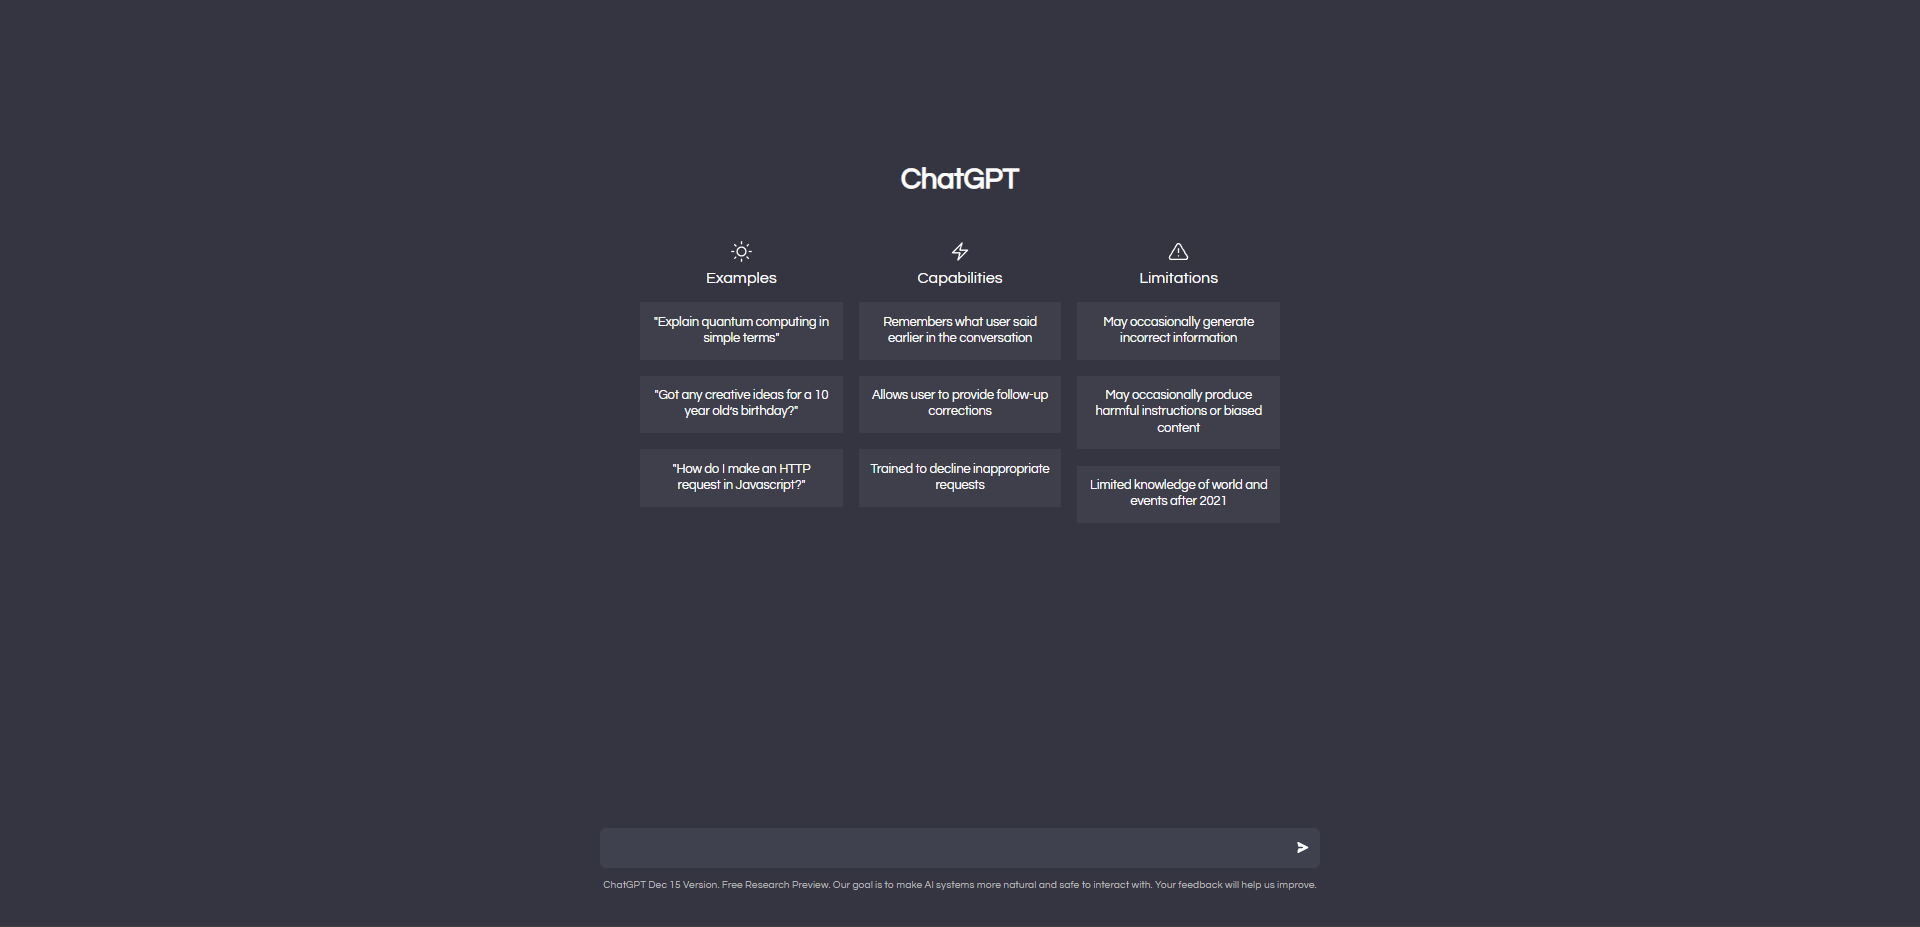
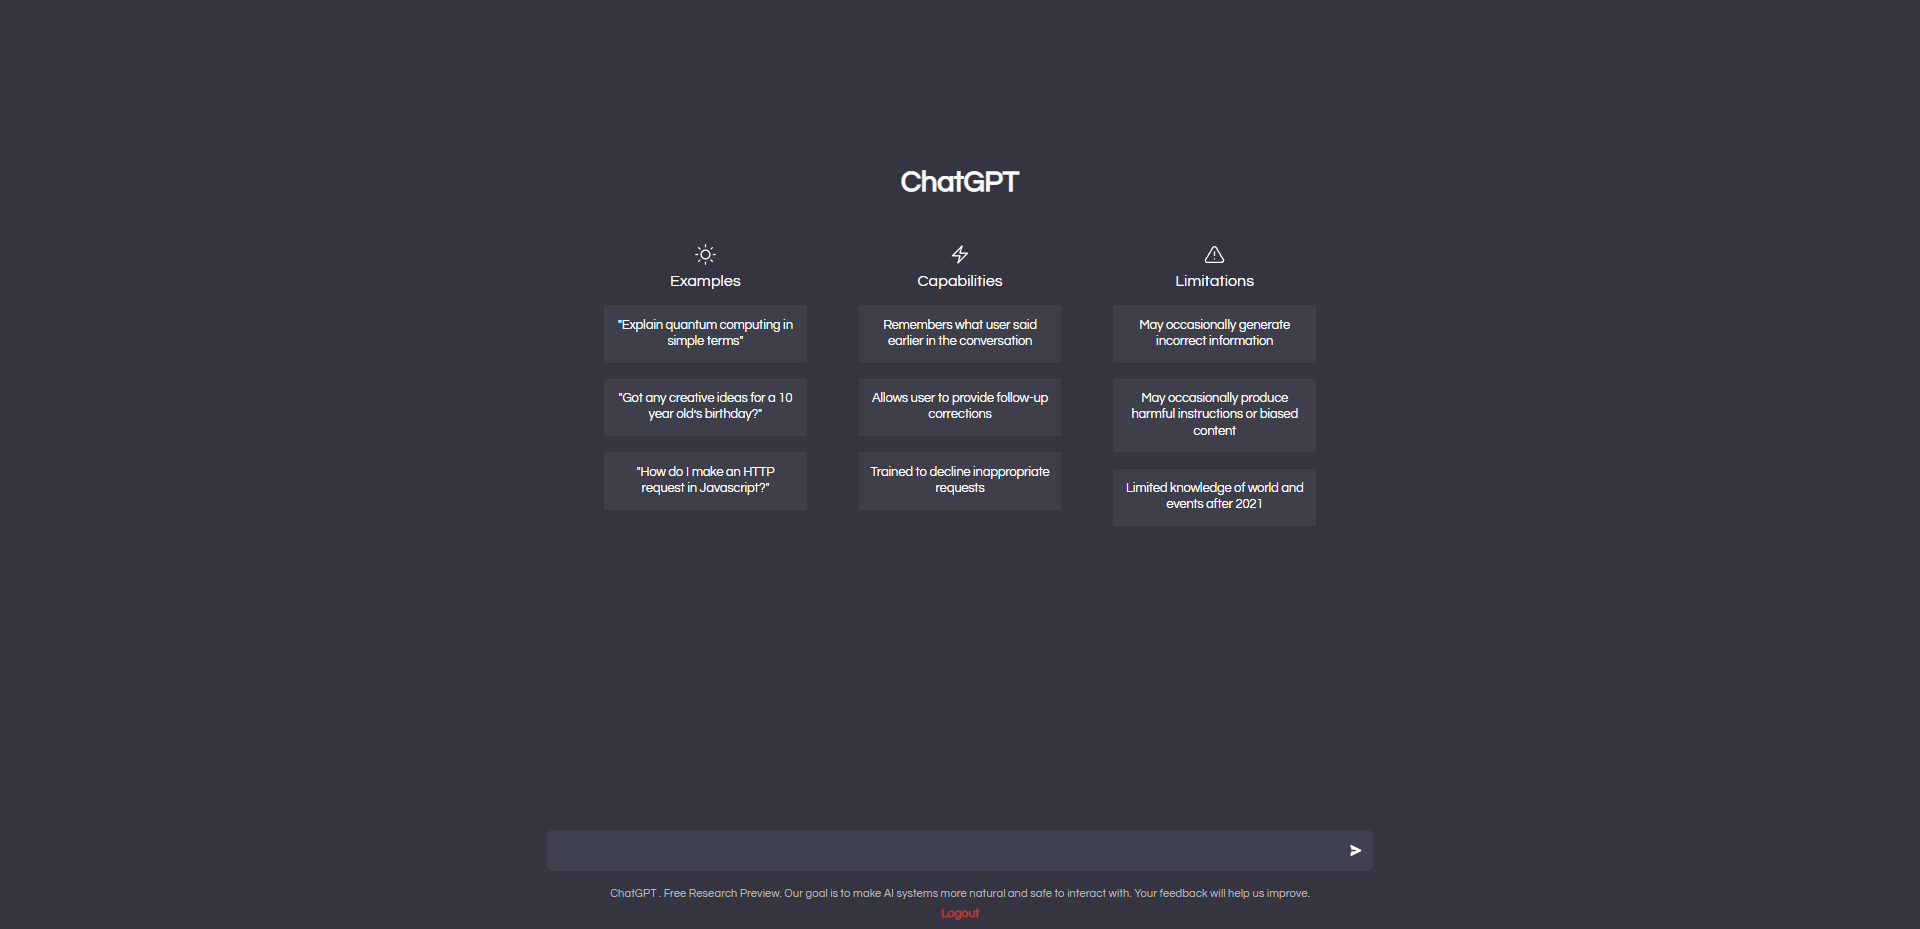
auto scroll added, unique key fixed, and get all previous chats too now and yes spinner added for loading

diff --git a/client/src/App.tsx b/client/src/App.tsx
@@ -1,4 +1,4 @@
-import { useState } from "react";
+import { useEffect, useState } from "react";
 import Hero from "./components/Hero";
 import Input from "./components/Input";
 import Messages from "./components/Messages";
@@ -6,17 +6,31 @@ import { Routes, Route, Navigate } from "react-router-dom";
 import Login from "./pages/Login";
 import Signup from "./pages/Signup";
 import Auth from "./pages/Auth";
+import axios from "axios";
+import { url } from "./url";
 
 export type Message = {
   msg: string;
   me?: boolean;
   img: string | undefined;
+  _id: string;
+};
+
+type User = {
+  apiKey: string;
+  avatar: string;
+  createdAt: string;
+  queries: string;
+  uid: string;
+  updatedAt: string;
+  username: string;
+  _id: string;
 };
 
 export default function App() {
   const [messages, setMessages] = useState<Message[]>([]);
   const [loading, setLoading] = useState<boolean>(false);
-  const [auth, setAuth] = useState(() => {
+  const [auth, setAuth] = useState<User | undefined>(() => {
     const user = localStorage.getItem("auth");
     if (!user) return undefined;
     return JSON.parse(user);
@@ -29,12 +43,35 @@ export default function App() {
     setLoading(value);
   }
   function handleAuth(value: any) {
+    setMessages([]);
     setAuth(value);
   }
   function handlelogout() {
-    setAuth(null);
+    setAuth(undefined);
     localStorage.removeItem("auth");
   }
+  useEffect(() => {
+    if (!auth) return;
+    axios
+      .get(`${url}/chatgpt/getchats/${auth.apiKey}`)
+      .then((res) => {
+        const processed = res.data.texts.map(
+          (item: { message: string; textBy: number; _id: string }) => {
+            return {
+              msg: item.message,
+              me: item.textBy == 1,
+              _id: item._id,
+              img: item.textBy == 1 ? auth?.avatar : undefined,
+            };
+          }
+        );
+        setMessages(processed);
+      })
+      .catch((err) => {
+        console.log(err);
+      });
+  }, [auth]);
+
   return (
     <div>
       <Routes>

diff --git a/client/src/components/Input.tsx b/client/src/components/Input.tsx
@@ -25,6 +25,7 @@ export default function Input({
       msg: input,
       me: true,
       img,
+      _id: new Date().toString(),
     });
     setInput("");
     toggleLoading(true);
@@ -37,6 +38,7 @@ export default function Input({
         addMessage({
           msg: resp.data.message,
           img: undefined,
+          _id: resp.data.id,
         });
       });
   }
@@ -48,14 +50,14 @@ export default function Input({
         flexDirection: "column",
         alignItems: "center",
         position: "absolute",
-        bottom: "35px",
+        bottom: "10px",
         width: "100%",
       }}
     >
       <div
         className="input_box"
         style={{
-          width: "75%",
+          width: "86%",
           backgroundColor: "#40414f",
           height: "45px",
           borderRadius: "7px",
@@ -67,6 +69,7 @@ export default function Input({
         }}
       >
         <input
+          autoFocus={true}
           onKeyDown={(e) => e.keyCode === 13 && input != "" && handleInput()}
           onChange={(e) => setInput(e.target.value)}
           value={input}
@@ -100,20 +103,19 @@ export default function Input({
       <p
         className="hide"
         style={{
-          fontSize: "11.6px",
+          fontSize: "12.6px",
           textAlign: "center",
           marginTop: "19px",
           color: "rgb(185 185 185)",
-          maxWidth: "75%",
+          maxWidth: "85%",
         }}
       >
-        ChatGPT Dec 15 Version. Free Research Preview. Our goal is to make AI
-        systems more natural and safe to interact with. Your feedback will help
-        us improve.
+        ChatGPT . Free Research Preview. Our goal is to make AI systems more
+        natural and safe to interact with. Your feedback will help us improve.
       </p>
       <p
         style={{
-          fontSize: "13px",
+          fontSize: "13.5px",
           marginTop: "9px",
           cursor: "pointer",
           color: "#bf3838",

diff --git a/client/src/components/Messages.tsx b/client/src/components/Messages.tsx
@@ -1,6 +1,6 @@
 import React, { useEffect, useRef } from "react";
 import { Message as MessageType } from "../App";
-
+import loader from "../assets/loader.gif";
 import Message from "./Message";
 
 type MessagesProps = {
@@ -9,34 +9,41 @@ type MessagesProps = {
 };
 
 export default function Messages({ messages, show }: MessagesProps) {
-  const scrollRef = useRef<any>();
-  useEffect(() => {
-    updateScroll();
-  }, [messages]);
+  const scrollRef = useRef<HTMLDivElement | null>(null);
+  useEffect(updateScroll, [messages]);
+
   function updateScroll() {
-    var element = scrollRef.current;
-    if (!element) return;
-    element.scrollTop = element.scrollHeight;
+    scrollRef.current?.scrollIntoView({ behavior: "smooth" });
   }
+
   return (
     <div
       className="msg_cont"
-      ref={scrollRef}
       style={{
-        width: "75%",
+        width: "85%",
         margin: "auto",
         marginTop: "2.5vh",
+        overflowY: "scroll",
       }}
     >
       <>
         {messages.map((item) => {
-          return <Message me={item.me} msg={item.msg} img={item.img} />;
+          return (
+            <div ref={scrollRef} key={item._id}>
+              <Message
+                me={item.me}
+                msg={item.msg}
+                img={item.img}
+                _id={item._id}
+                key={item._id}
+              />
+            </div>
+          );
         })}
       </>
-
       {show && (
         <p style={{ textAlign: "center", margin: "28px 0", fontSize: "14px" }}>
-          Loading...
+          <img style={{ width: "23px" }} src={loader} alt="" />
         </p>
       )}
     </div>

diff --git a/controllers/chat.js b/controllers/chat.js
@@ -1,8 +1,10 @@
 const Query = require("../models/Query");
 const { createCompletionChatGTP } = require("../chatGTP");
+const { v4: uuid } = require("uuid");
 
 exports.chat = async (req, res) => {
   try {
+    const tempId = uuid();
     await Query.updateOne(
       { _id: req.queryId },
       { $push: { texts: { message: req.body.message, textBy: 1 } } }
@@ -12,9 +14,16 @@ exports.chat = async (req, res) => {
     });
     await Query.updateOne(
       { _id: req.queryId },
-      { $push: { texts: { message: data.choices[0]?.text, textBy: 0 } } }
+      {
+        $push: {
+          texts: { message: data.choices[0]?.text, textBy: 0 },
+        },
+      }
     );
-    res.send({ message: data.choices[0]?.text });
+    res.send({
+      message: data.choices[0]?.text,
+      _id: data.choices[0] ? tempId : undefined,
+    });
   } catch (err) {
     res.status(400).send({ success: false, message: err.message });
   }
@@ -22,7 +31,7 @@ exports.chat = async (req, res) => {
 
 exports.getAllChats = async (req, res) => {
   try {
-    const query = await Query.findOne({ _id: req.body._id });
+    const query = await Query.findOne({ _id: req.queryId });
     if (!query)
       return res
         .status(400)

diff --git a/client/src/components/Hero.tsx b/client/src/components/Hero.tsx
@@ -4,12 +4,17 @@ import { alert, sun, thunder } from "../assets/icons";
 export default function Hero() {
   return (
     <div
-      style={{ display: "flex", flexDirection: "column", alignItems: "center" }}
+      style={{
+        display: "flex",
+        flexDirection: "column",
+        alignItems: "center",
+        width: "100%",
+      }}
     >
       <h1 style={{ marginTop: "18vh", marginBottom: "5vh" }}>ChatGPT</h1>
       <div
         className="cols"
-        style={{ display: "flex", flexDirection: "row", gap: "18px" }}
+        style={{ display: "flex", flexDirection: "row", gap: "58px" }}
       >
         <div
           className="row"

diff --git a/chatGTP.js b/chatGTP.js
@@ -4,15 +4,6 @@ const configuration = new Configuration({
 });
 const openai = new OpenAIApi(configuration);
 
-async function generateImageFromChatGTP({ message }) {
-  const response = await openai.createImage({
-    prompt: message,
-    n: 2,
-    size: "1024x1024",
-  });
-  return response;
-}
-
 async function createCompletionChatGTP({ message }) {
   const response = await openai.createCompletion({
     model: "text-davinci-003",
@@ -23,4 +14,4 @@ async function createCompletionChatGTP({ message }) {
   return response;
 }
 
-module.exports = { generateImageFromChatGTP, createCompletionChatGTP };
+module.exports = { createCompletionChatGTP };

diff --git a/models/Query.js b/models/Query.js
@@ -1,18 +1,19 @@
 const mongoose = require("mongoose");
 
 const querySchema = new mongoose.Schema({
-    texts: [
-        {
-            message: {
-                type: String,
-            },
-            textBy: {
-                type: Number,
-                // 0 -> chatGPT
-                // 1 -> user
-            },
-        },
-    ],
+  texts: [
+    {
+      message: {
+        type: String,
+      },
+      textBy: {
+        type: Number,
+        // 0 -> chatGPT
+        // 1 -> user
+      },
+      id: String,
+    },
+  ],
 });
 
 module.exports = new mongoose.model("query", querySchema);

diff --git a/middlewares/apiKey.js b/middlewares/apiKey.js
@@ -5,6 +5,7 @@ exports.checkApiKey = async (req, res, next) => {
     const user = await User.findOne({ apiKey: req.params.apiKey });
     if (!user) return res.status(401).send({ message: "Unauthorised" });
     req.queryId = user.queries;
+    req.userId = user._id;
     next();
   } catch (err) {
     res.status(400).send({ success: false, message: err.message });

diff --git a/routers/chat.js b/routers/chat.js
@@ -3,6 +3,6 @@ const { checkApiKey } = require("../middlewares/apiKey");
 const router = require("express").Router();
 
 router.route("/chat/:apiKey").post(checkApiKey, chat);
-router.route("/getchats/:apiKey").post(checkApiKey, getAllChats);
+router.route("/getchats/:apiKey").get(checkApiKey, getAllChats);
 
 module.exports = router;

diff --git a/controllers/auth.js b/controllers/auth.js
@@ -22,6 +22,7 @@ exports.login = async (req, res) => {
     res.status(400).send({ error: err.message });
   }
 };
+
 exports.signup = async (req, res) => {
   try {
     const newQuery = new Query({ texts: [] });
